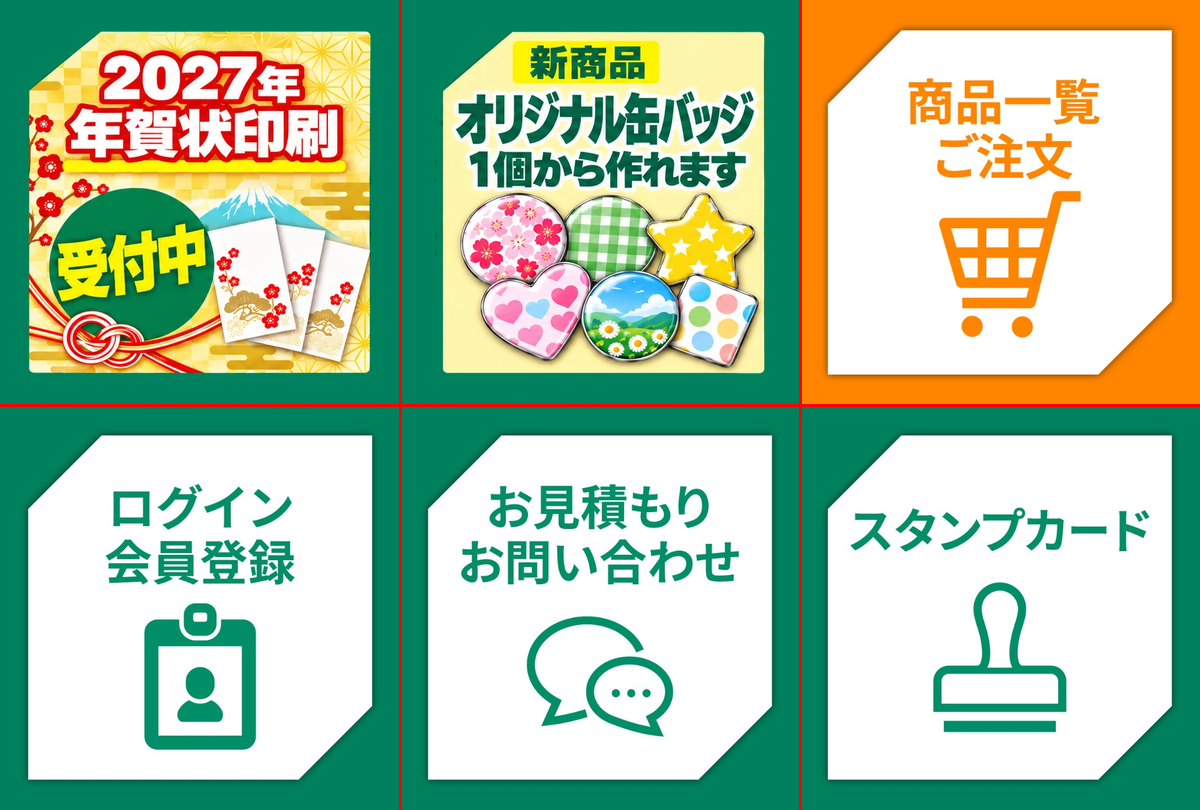
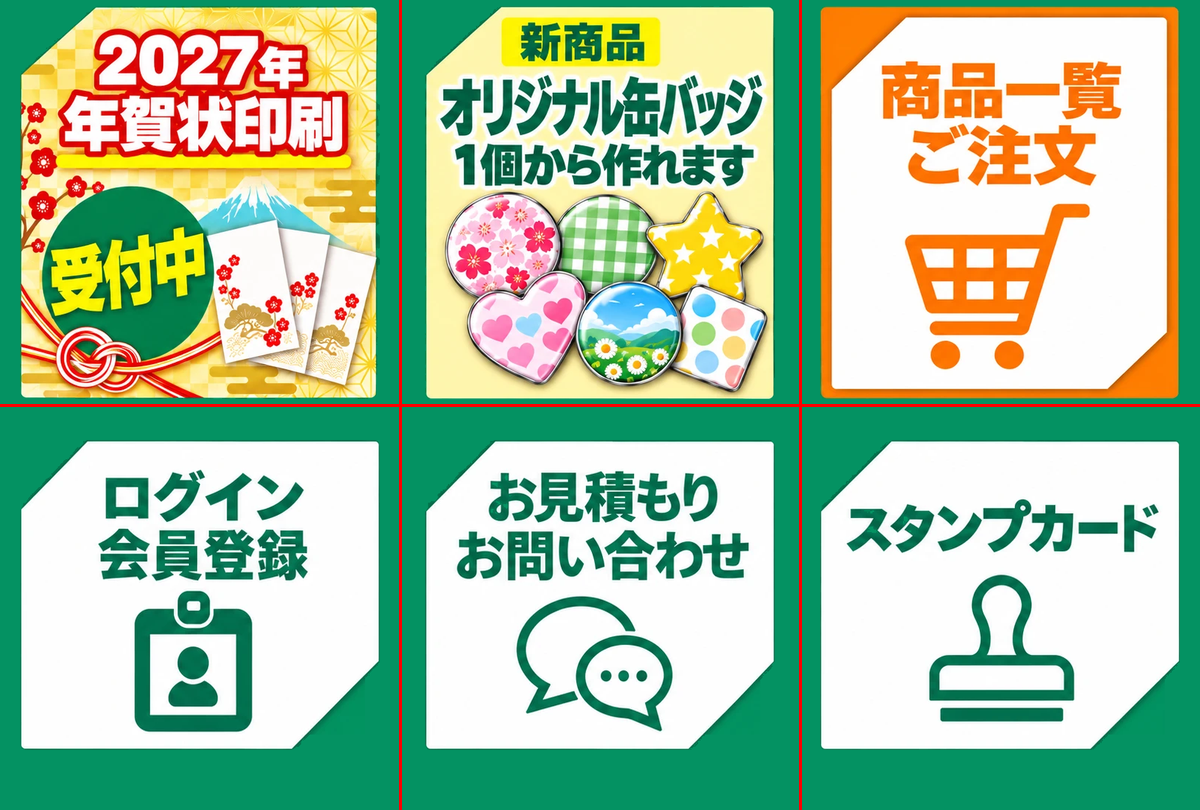
インクアート：11月リッチメニュー登録用＝生成v4の6枠を格子に置き直した版

diff --git a/_build/build_inkart_richmenu_202611.py b/_build/build_inkart_richmenu_202611.py
@@ -1,17 +1,15 @@
 #!/usr/bin/env python3
 """インクアート 11月リッチメニュー（11/1〜）の登録用画像を組む。
 
-材料
-- 生成画像 v4（_images/inkart_richmenu_202611_generated_v4.webp・1526×1030）：上段左（年賀状）と上段中（缶バッジ）の2枠だけ使う
-- 10月の実物（_data/printearth/richmenu_202610_actual.jpg・2000×1349・DYMデザイナー版）：上段右（商品一覧／ご注文）と下段3枠をそのまま使う
+生成画像 v4（_images/inkart_richmenu_202611_generated_v4.webp・1526×1030）は上段が高さの約52%で、
+LINEの6分割テンプレ（上下ちょうど半分）とずれる。6枚の付箋形の枠を切り出し、1200×810の格子に置き直す。
+（2026-10-22 殿村さん「生成した画像の方がええな」＝6枠とも生成物を使う。10月の実物と混ぜる版は --mix）
 
-生成画像は上段が高く、LINEの6分割テンプレ（上下ちょうど半分）とずれるので、枠を切り出して格子に置き直す。
-出力は 1200×810（LINEの許容サイズ）。
-
-使い方: python3 _build/build_inkart_richmenu_202611.py
+使い方: python3 _build/build_inkart_richmenu_202611.py [--mix]
 出力:   _images/inkart_richmenu_202611_1200x810.png（登録用）
         _images/inkart_richmenu_202611_1200x810_gridcheck.png（格子を重ねた確認用）
 """
+import sys
 from PIL import Image, ImageDraw
 import numpy as np
 
@@ -23,62 +21,87 @@ OUT_GRID = "_images/inkart_richmenu_202611_1200x810_gridcheck.png"
 W, H = 1200, 810
 CW, CH = W // 3, H // 2            # 400 × 405
 
-# 生成画像v4の枠の位置（緑の溝から実測）
-GEN_COLS = [(19, 529), (531, 1018)]
-GEN_ROW = (20, 559)
-GEN_GREEN = np.array([2, 145, 95])
+# 置き先の枠の大きさ（列ごとに幅を変えて、縦横の縮みの差を数%に収める）
+TOP_W = [360, 350, 360]
+TOP_H = 393
+BOT_W = [360, 350, 360]
+BOT_H = 310
+TOP_Y = 6
+BOT_Y = 440
 
 
-def bbox_nongreen(a, green, tol=60):
+def card_boxes(a, green, tol=60):
+    """生成画像を上下2段×左右3列に分け、各マスの中の枠（緑でない部分）の箱を返す。"""
+    h, w = a.shape[:2]
     m = (abs(a - green).sum(-1) >= tol)
-    ys, xs = np.where(m)
-    return xs.min(), ys.min(), xs.max(), ys.max()
+    rowg = (~m).mean(1)
+    # 上下の境目＝画像の中ほどで緑の割合がいちばん高い行
+    mid = int(np.argmax(rowg[int(h * 0.4):int(h * 0.7)])) + int(h * 0.4)
+    boxes = []
+    for (y0, y1) in [(0, mid), (mid, h)]:
+        row = []
+        colg = (~m[y0:y1]).mean(0)
+        # 列の境目＝左右の3分の1付近で緑の割合がいちばん高い列
+        c1 = int(np.argmax(colg[int(w * 0.25):int(w * 0.42)])) + int(w * 0.25)
+        c2 = int(np.argmax(colg[int(w * 0.58):int(w * 0.75)])) + int(w * 0.58)
+        for (x0, x1) in [(0, c1), (c1, c2), (c2, w)]:
+            sub = m[y0:y1, x0:x1]
+            ys, xs = np.where(sub)
+            row.append((x0 + xs.min(), y0 + ys.min(), x0 + xs.max(), y0 + ys.max()))
+        boxes.append(row)
+    return boxes
 
 
-def main():
-    act = Image.open(ACTUAL).convert("RGB").resize((W, H), Image.LANCZOS)
-    aa = np.array(act).astype(int)
-    act_green = tuple(int(v) for v in aa[H - 5, W - 5])
-    out = act.copy()
+def recolor_margin(crop, src_green, dst_green):
+    """枠の外周と左上の切り落としに残る生成画像の緑を、下地の緑に揃える。"""
+    m = (abs(crop - src_green).sum(-1) < 45)
+    keep = np.zeros(m.shape, bool)
+    keep[:20, :] = True
+    keep[-20:, :] = True
+    keep[:, :20] = True
+    keep[:, -20:] = True
+    keep[:120, :120] = True
+    m &= keep
+    crop[m] = dst_green
+    return crop
 
-    # 実物の上段右の枠の大きさ・位置を測り、生成の2枠をそれに合わせる
-    cell = aa[0:CH, 2 * CW:3 * CW]
-    wm = cell.min(-1) > 235                      # 白い付箋形の枠
-    ys, xs = np.where(wm)
-    x0, y0, x1, y1 = xs.min(), ys.min(), xs.max(), ys.max()
-    card_w, card_h = int(x1 - x0 + 1), int(y1 - y0 + 1)   # 実測 343×343
-    top_margin = int(y0)
-    print("actual white card", card_w, card_h, "left margin", x0, "top margin", top_margin)
-    # 生成の中央の枠は元が縦長なので、横を少し狭くして縦横の縮みの差を6%台に抑える
-    widths = [card_w, card_w - 13]
 
-    # 上段左の2マス（生成の枠を置く場所）を実物の緑で塗りつぶしてから置く
-    d0 = ImageDraw.Draw(out)
-    d0.rectangle([0, 0, 2 * CW - 1, CH - 1], fill=act_green)
-
+def main(mix=False):
     gen = Image.open(GEN).convert("RGB")
     ga = np.array(gen).astype(int)
-    for ci, (sx0, sx1) in enumerate(GEN_COLS):
-        sy0, sy1 = GEN_ROW
-        crop = ga[sy0:sy1 + 1, sx0:sx1 + 1].copy()
-        # 枠の外側（生成画像の緑）を実物の緑に塗り替える（緑の色味が少し違うため）
-        m = (abs(crop - GEN_GREEN).sum(-1) < 45)
-        # 枠の中の緑の文字を巻き込まないよう、外周20pxと左上の切り落とし（120px四方）だけ対象にする
-        keep = np.zeros(m.shape, bool)
-        keep[:20, :] = True
-        keep[-20:, :] = True
-        keep[:, :20] = True
-        keep[:, -20:] = True
-        keep[:120, :120] = True
-        m &= keep
-        crop[m] = act_green
+    gen_green = ga[5, 5]
+    boxes = card_boxes(ga, gen_green)
+    for r in boxes:
+        print("boxes", [(int(b[0]), int(b[1]), int(b[2]), int(b[3])) for b in r])
+
+    if mix:
+        base = Image.open(ACTUAL).convert("RGB").resize((W, H), Image.LANCZOS)
+        bg = tuple(int(v) for v in np.array(base)[H - 5, W - 5])
+        out = base.copy()
+        ImageDraw.Draw(out).rectangle([0, 0, 2 * CW - 1, CH - 1], fill=bg)
+        use = [(0, 0), (0, 1)]
+        tw_list, th, ty = [343, 330], 343, 31
+    else:
+        bg = tuple(int(v) for v in gen_green)
+        out = Image.new("RGB", (W, H), bg)
+        use = [(r, c) for r in range(2) for c in range(3)]
+
+    for (r, c) in use:
+        x0, y0, x1, y1 = boxes[r][c]
+        crop = ga[y0:y1 + 1, x0:x1 + 1].copy()
+        crop = recolor_margin(crop, gen_green, bg)
         card = Image.fromarray(crop.astype("uint8"))
         sw, sh = card.size
-        tw, th = widths[ci], card_h
-        print(f"gen card {ci}: {sw}x{sh} -> {tw}x{th}  squash {(tw/sw)/(th/sh):.3f}")
-        card = card.resize((tw, th), Image.LANCZOS)
-        x = ci * CW + (CW - tw) // 2
-        out.paste(card, (x, top_margin))
+        if mix:
+            tw, th_, ty = tw_list[c], th, ty
+        else:
+            tw = (TOP_W if r == 0 else BOT_W)[c]
+            th_ = TOP_H if r == 0 else BOT_H
+            ty = TOP_Y if r == 0 else BOT_Y
+        print(f"card r{r}c{c}: {sw}x{sh} -> {tw}x{th_}  squash {(tw/sw)/(th_/sh):.3f}")
+        card = card.resize((tw, th_), Image.LANCZOS)
+        out.paste(card, (c * CW + (CW - tw) // 2, ty))
+
     out.save(OUT)
     g = out.copy()
     d = ImageDraw.Draw(g)
@@ -86,8 +109,8 @@ def main():
         d.line([(i * CW, 0), (i * CW, H)], fill=(255, 0, 0), width=3)
     d.line([(0, CH), (W, CH)], fill=(255, 0, 0), width=3)
     g.save(OUT_GRID)
-    print(OUT, out.size, "green", act_green)
+    print(OUT, out.size, "bg", bg)
 
 
 if __name__ == "__main__":
-    main()
+    main(mix="--mix" in sys.argv)
